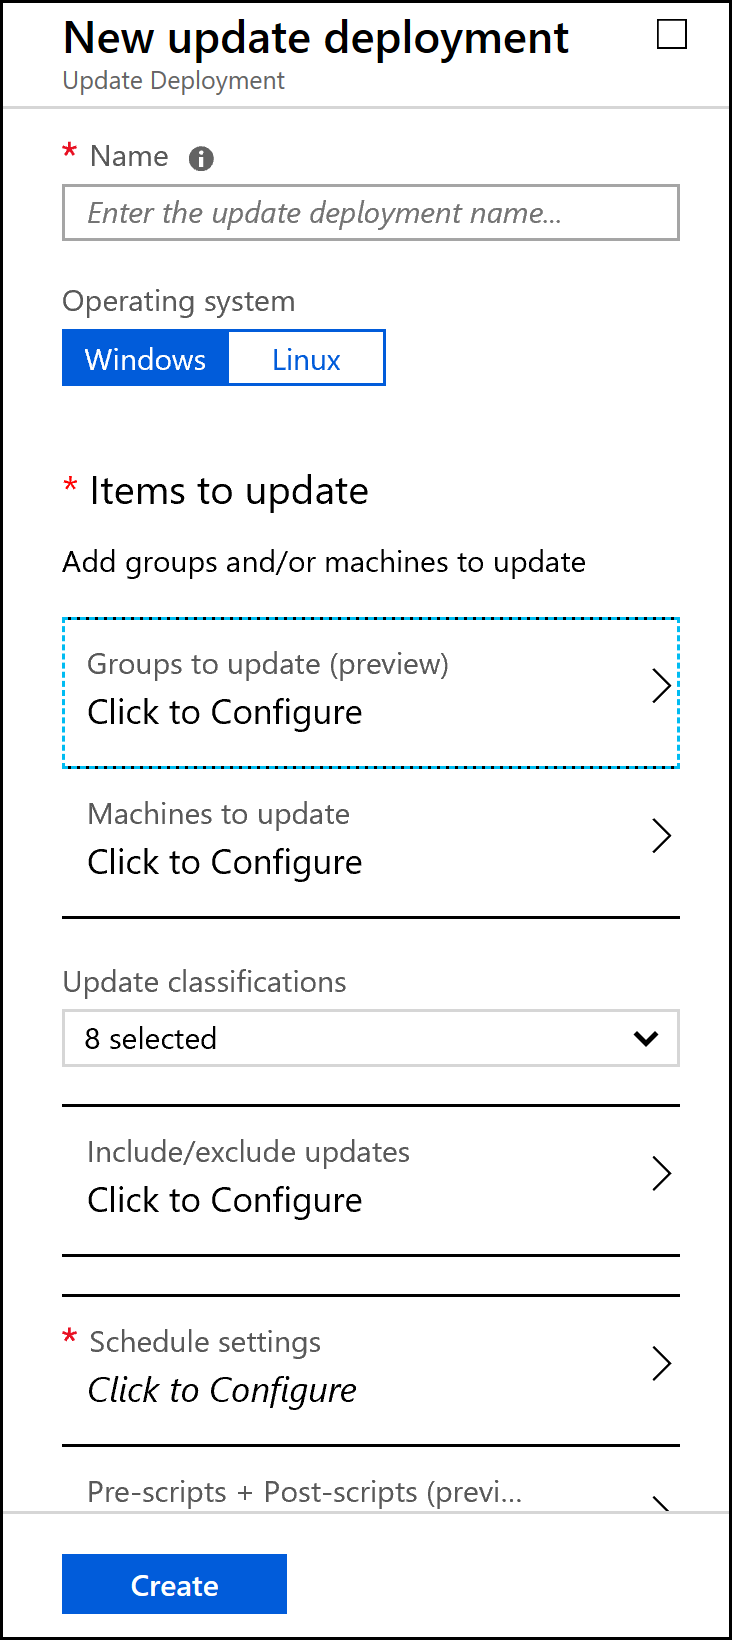
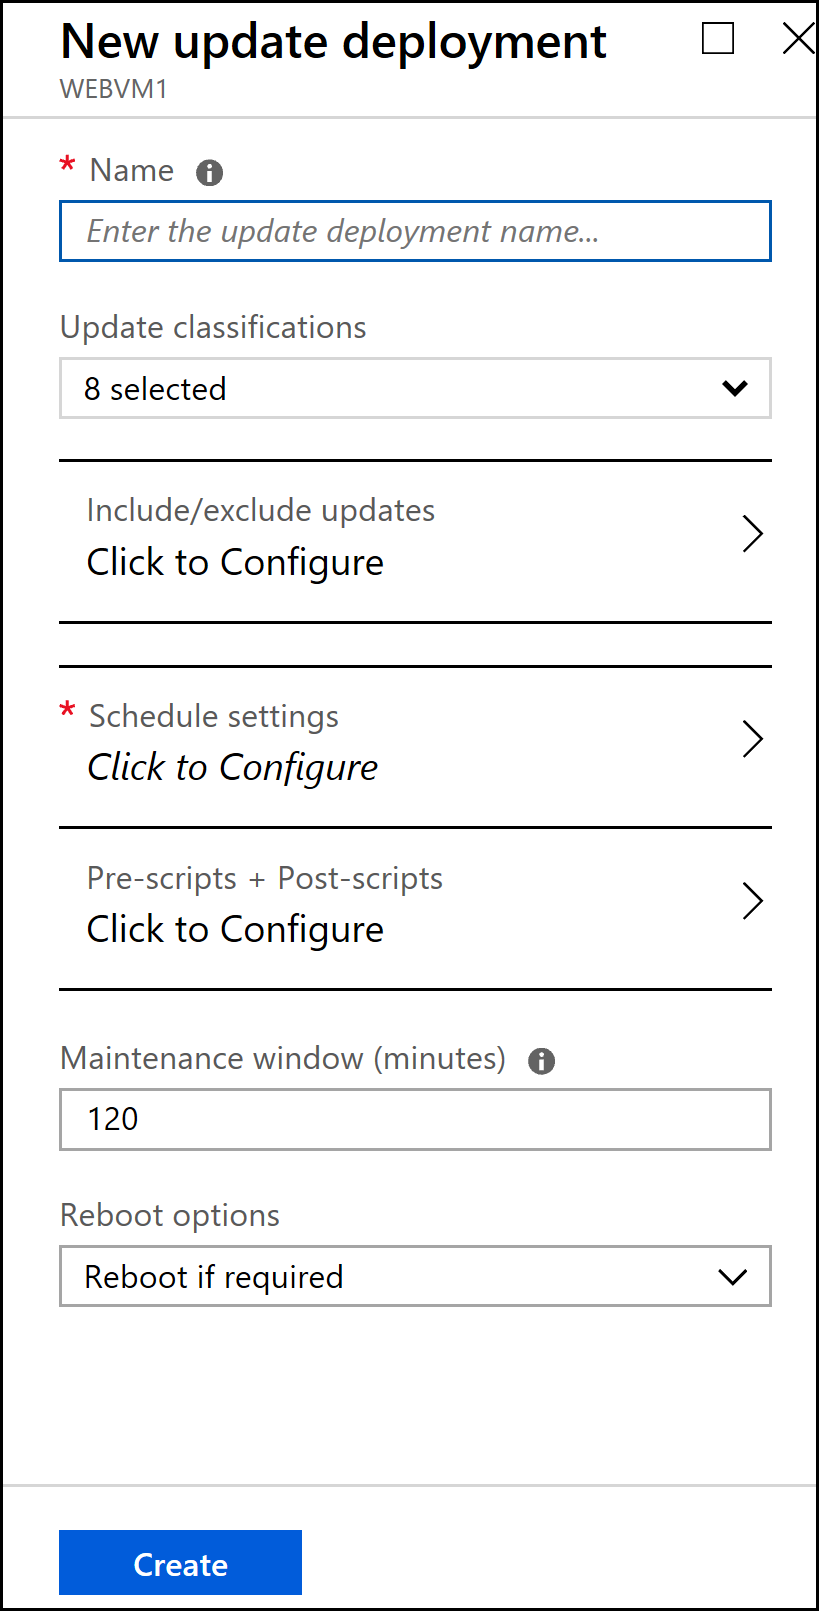
updated lab guide

diff --git a/Hands-on lab/HOL step-by-step - Azure security and management.md b/Hands-on lab/HOL step-by-step - Azure security and management.md
@@ -286,20 +286,6 @@ In this exercise, you will run a template deployment using an ARM template provi
 
 **Repeat the same steps to create peering from hackathonVnet to AppGWVnet**
 
-15. In the Azure Portal, open the **HOLRG,** and locate the Public IP Address **PublicIP1**. Click on the blade to open.
-
-16. On the **PublicIP1** blade, locate the DNS Name. If you hover your mouse over the name, you can **click to copy** the name to the clipboard. Paste this into your Notepad document you opened earlier.
-
-17. Open a new tab in Internet Explorer and paste the URL. This is the DNS name that is attached to the Load Balancer in front of the CloudShop Application web servers **WEBVM1** & **WEBVM2**. Give it a few mintues to load the page. You can also paste the public IP in the browser side by side to load the application.
-
-18. When the page loads, the CloudShop application should appear, and it will show which VM is serving the web page. In this screen capture, we see it is running on **WEBVM2**.
-
-    ![Screenshot of the Cloud Shop webpage with a callout pointing to the WEBVM2 virtual machine name.](images/Lab-guide/image46.png "Cloud Shop webpage")
-
-19. By pressing **F5** on your keyboard, you can refresh the website until you see that **WEBVM1** is also serving webpages
-
-    ![Screenshot of the Cloud Shop webpage with a callout pointing to the WEBVM1 virtual machine name.](images/Lab-guide/image47.png "Cloud Shop webpage")
-
 ### Task 2: Allow remote desktop to the WEBVM1 & WEBVM2 using NAT rules
 
 Now that the deployment and the application is up and running, the next step is to allow RDP to the Web Servers.
@@ -525,7 +511,7 @@ In this section, you will add Service Map to Log Analytics.
 
     ![In the Monitoring and Management blade, in the search results, Service Map is selected.](images/Lab-guide/image84.png "Monitoring and Management blade")
 
-4. Select the OMS Workspace you created and check the **Pin to dashboard** before selecting **Create**
+4. Select the OMS Workspace you created and click **Create**
 
     ![Screenshot of the Service Map blade.](images/Lab-guide/image85.png "Service Map blade")
 
@@ -599,7 +585,7 @@ The Update Management functionality will be configured through your Virtual Mach
 
 9. Click on **Schedule update deployment**. The portal shows the 'New update deployment' blade, where you can choose which updates to deploy (based on classification), which to exclude (based on KnowledgeBase ID), when to deploy, and the duration of the maintenance window (updates not deployed within 20 minutes of the end of this time window are omitted so the VM can reboot.)
 
-     ![The New Update Deployment blade shows the settings described in the preceeding text.](images/Lab-guide/image186.png "New update deployment")
+     ![The New Update Deployment blade shows the settings described in the preceeding text.](images/Lab-guide/image186.png "New update deployment for WebVM1")
 
     Review the update settings, but do *not* configure an update deployment (to save time during the lab). Close the New update deployment blade.
 
@@ -608,13 +594,6 @@ The Update Management functionality will be configured through your Virtual Mach
      ![Screenshot of the Log Analytics Update Managemnent experience. The VMs we have created are listed, together with metrics showing the number of updates pending/failed.](images/Lab-guide/image188.png "Update Management experience")
 
     > **Note**: It may take several minutes before data is shown in this view.
-
-11. Select **New update deployment** brings a similar update deployment blade, except in this case you can configure the update deployment to be either Windows or Linux (previously the OS was inferred from the VM), and select which VMs will be updated (previously the blade applied only to a single VM).
-
-    ![The New Update Deployment blade shows the settings described in the preceeding text.](images/Lab-guide/image187.png "New update deployment")
-
-    Updating VMs via this Log Analytics experience enables central management of updates.
-    
 
 ### Task 6: Configure Inventory Tracking and Change Management
 
